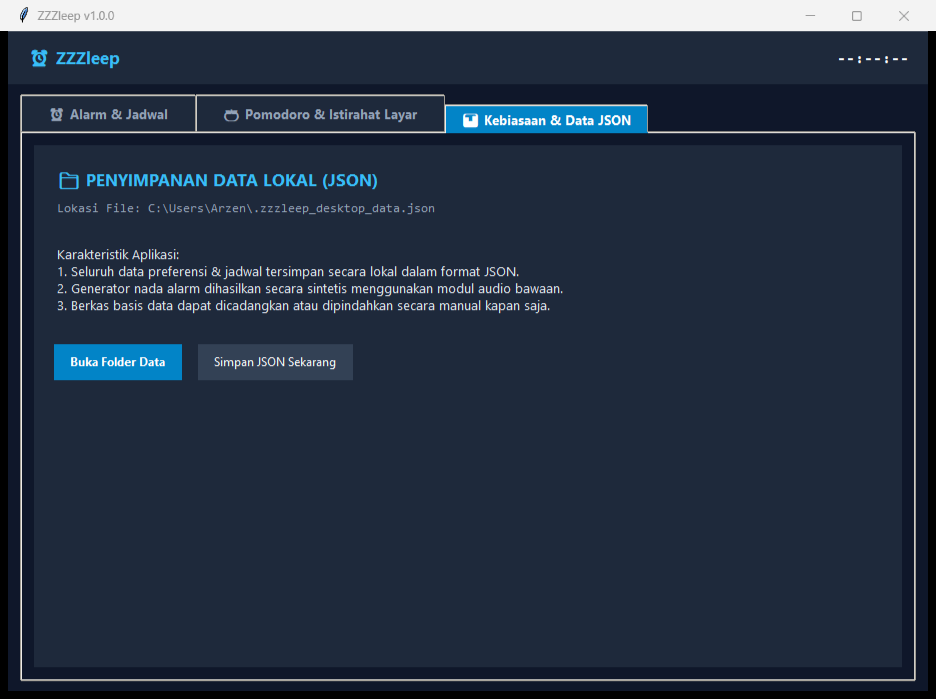
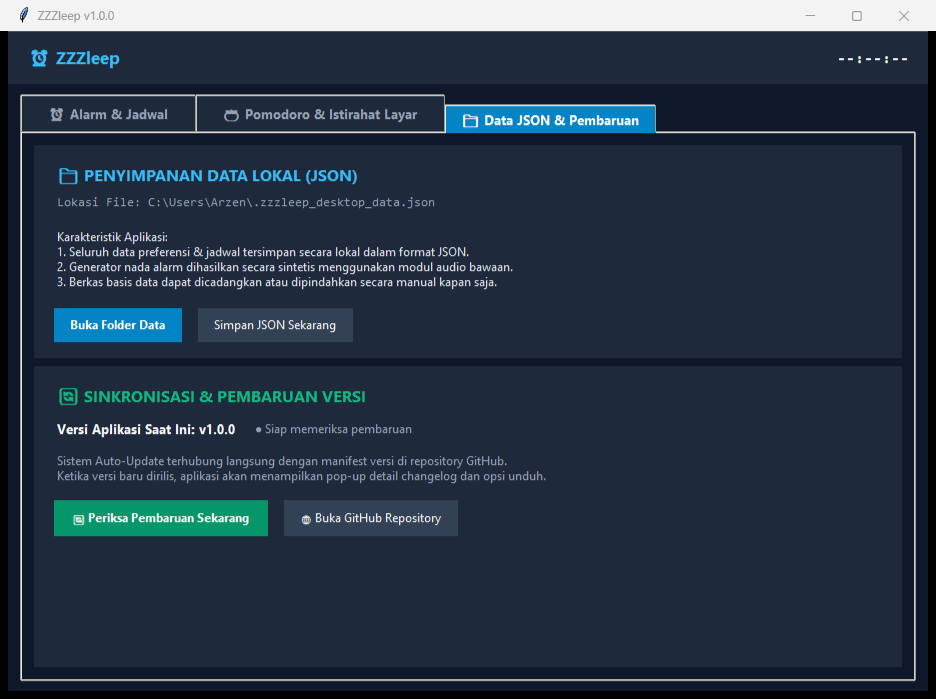
feat: implement GitHub-integrated auto-update engine with version.json manifest and changelog dialog

Changed region(s): [[0.031, 0.3305, 0.6197, 0.7811], [0.062, 0.2403, 0.4647, 0.3004], [0.4957, 0.1502, 0.7126, 0.2103]]

diff --git a/index.html b/index.html
@@ -112,7 +112,7 @@
           </button>
           <button id="btnTab3" onclick="switchScreenshot(3)" class="px-3.5 py-1.5 rounded-lg text-xs font-semibold bg-slate-100 dark:bg-slate-900 text-slate-600 dark:text-slate-400 hover:text-slate-900 dark:hover:text-white flex items-center gap-1.5 border border-slate-200 dark:border-slate-800 transition">
             <i data-lucide="hard-drive" class="w-3.5 h-3.5"></i>
-            <span id="tab3Title">3. Data JSON &amp; Backup</span>
+            <span id="tab3Title">3. Data JSON &amp; Pembaruan</span>
           </button>
         </div>
         <span class="text-[11px] font-mono text-slate-500" id="screenshotSub">Tangkapan Layar Asli Aplikasi Desktop (Tkinter GUI)</span>
@@ -145,6 +145,10 @@
           <li class="flex items-start gap-2">
             <span class="text-sky-600 dark:text-sky-400 font-bold">•</span>
             <span><strong>Timer Pomodoro (25/5):</strong> Siklus fokus kerja dan jeda istirahat dengan notifikasi suara.</span>
+          </li>
+          <li class="flex items-start gap-2">
+            <span class="text-sky-600 dark:text-sky-400 font-bold">•</span>
+            <span><strong>Auto-Update GitHub:</strong> Sinkronisasi manifest <code class="px-1 py-0.5 rounded bg-slate-100 dark:bg-slate-800 text-slate-800 dark:text-slate-200 font-mono">version.json</code> otomatis dengan dialog pop-up changelog.</span>
           </li>
           <li class="flex items-start gap-2">
             <span class="text-sky-600 dark:text-sky-400 font-bold">•</span>
@@ -230,7 +234,7 @@
         heroDesc: 'Aplikasi manajemen waktu untuk laptop dan komputer: alarm audio sintetis (winsound), timer Pomodoro 25/5, pengingat istirahat mata 20-20-20, dan penyimpanan data lokal JSON.',
         tab1Title: '1. Alarm & Jadwal',
         tab2Title: '2. Pomodoro & Istirahat Layar',
-        tab3Title: '3. Data JSON & Backup',
+        tab3Title: '3. Data JSON & Pembaruan',
         screenshotSub: 'Tangkapan Layar Asli Aplikasi Desktop (Tkinter GUI)',
         specHeading: 'Spesifikasi & Fitur Teknis',
         specList: `
@@ -248,6 +252,10 @@
           </li>
           <li class="flex items-start gap-2">
             <span class="text-sky-600 dark:text-sky-400 font-bold">•</span>
+            <span><strong>Auto-Update GitHub:</strong> Sinkronisasi manifest <code class="px-1 py-0.5 rounded bg-slate-100 dark:bg-slate-800 text-slate-800 dark:text-slate-200 font-mono">version.json</code> otomatis dengan dialog pop-up changelog.</span>
+          </li>
+          <li class="flex items-start gap-2">
+            <span class="text-sky-600 dark:text-sky-400 font-bold">•</span>
             <span><strong>Penyimpanan Lokal:</strong> Berkas tersimpan di <code class="px-1 py-0.5 rounded bg-slate-100 dark:bg-slate-800 text-slate-800 dark:text-slate-200 font-mono">~/.zzzleep_desktop_data.json</code>.</span>
           </li>
         `,
@@ -262,7 +270,7 @@
         heroDesc: 'Time-management desktop application: synthesized audio alarms (winsound), 25/5 Pomodoro timer, 20-20-20 screen rest reminder, and local JSON storage.',
         tab1Title: '1. Alarms & Schedule',
         tab2Title: '2. Pomodoro & Screen Rest',
-        tab3Title: '3. JSON Storage & Backup',
+        tab3Title: '3. JSON Storage & Updates',
         screenshotSub: 'Real Native Desktop Application Screenshots (Tkinter GUI)',
         specHeading: 'Technical Specifications & Features',
         specList: `
@@ -277,6 +285,10 @@
           <li class="flex items-start gap-2">
             <span class="text-sky-600 dark:text-sky-400 font-bold">•</span>
             <span><strong>Pomodoro Timer (25/5):</strong> Work/break interval cycles with audio notifications.</span>
+          </li>
+          <li class="flex items-start gap-2">
+            <span class="text-sky-600 dark:text-sky-400 font-bold">•</span>
+            <span><strong>GitHub Auto-Update:</strong> Automatic synchronization via <code class="px-1 py-0.5 rounded bg-slate-100 dark:bg-slate-800 text-slate-800 dark:text-slate-200 font-mono">version.json</code> with popup changelog modal.</span>
           </li>
           <li class="flex items-start gap-2">
             <span class="text-sky-600 dark:text-sky-400 font-bold">•</span>

diff --git a/desktop/app.py b/desktop/app.py
@@ -1,6 +1,6 @@
 #!/usr/bin/env python3
 """
-ZZZleep Desktop — Desktop Calendar, Audio Alarm & Rest Timer
+ZZZleep — Desktop Calendar, Audio Alarm & Rest Timer
 Author: Rizki Ananda, S.Kom (@InfiniteNull)
 License: MIT
 """
@@ -12,6 +12,8 @@ import time
 import math
 import threading
 import datetime
+import urllib.request
+import webbrowser
 import tkinter as tk
 from tkinter import ttk, messagebox
 
@@ -22,10 +24,12 @@ try:
 except ImportError:
     HAS_WINSOUND = False
 
-# Application Meta
+# Application Meta & Update Config
 APP_NAME = "ZZZleep"
 APP_VERSION = "1.0.0"
 DATA_FILE = os.path.join(os.path.expanduser("~"), ".zzzleep_desktop_data.json")
+UPDATE_MANIFEST_URL = "https://raw.githubusercontent.com/InfiniteNull/ZZZleep/main/version.json"
+GITHUB_REPO_URL = "https://github.com/InfiniteNull/ZZZleep"
 
 DEFAULT_DATA = {
     "alarms": [
@@ -43,6 +47,15 @@ DEFAULT_DATA = {
         "eyeRestIntervalMin": 20
     }
 }
+
+
+def parse_version(v_str):
+    """Parses semver string into comparable tuple."""
+    try:
+        clean = str(v_str).strip().lstrip('v')
+        return tuple(int(x) for x in clean.split('.'))
+    except Exception:
+        return (0, 0, 0)
 
 
 def play_audio_tone(tone_type="gentle"):
@@ -94,6 +107,9 @@ class ZzzleepDesktopApp:
         self.setup_styles()
         self.build_ui()
         self.start_background_timer()
+
+        # Background update check on launch (silent)
+        self.root.after(2000, lambda: self.check_for_updates_async(silent=True))
 
     def load_data(self):
         if os.path.exists(DATA_FILE):
@@ -156,9 +172,9 @@ class ZzzleepDesktopApp:
         self.notebook.add(tab_timers, text="  🍅 Pomodoro & Istirahat Layar  ")
         self.build_timers_tab(tab_timers)
 
-        # Tab 3: Habits & Data
+        # Tab 3: Habits, Data & Updates
         tab_vault = ttk.Frame(self.notebook)
-        self.notebook.add(tab_vault, text="  📊 Kebiasaan & Data JSON  ")
+        self.notebook.add(tab_vault, text="  📁 Data JSON & Pembaruan  ")
         self.build_vault_tab(tab_vault)
 
     def build_alarms_tab(self, parent):
@@ -300,7 +316,6 @@ class ZzzleepDesktopApp:
         btn_pomo_r = tk.Button(pomo_btns, text="Reset", font=("Segoe UI", 10), bg="#334155", fg="#f8fafc", relief="flat", padx=10, pady=6, command=self.reset_pomodoro)
         btn_pomo_r.pack(side="left", padx=6)
 
-        desc1 = "Siklus kerja fokus 25 menit diselingi istirahat 5 menit\\nuntuk menjaga konsentrasi kerja."
         tk.Label(pomo, text="Siklus kerja fokus 25 menit diselingi istirahat 5 menit\nuntuk menjaga konsentrasi kerja.", font=("Segoe UI", 9), fg="#94a3b8", bg="#1e293b", justify="center").pack(pady=16)
 
         # Eye Rest Card
@@ -340,11 +355,12 @@ class ZzzleepDesktopApp:
         container = tk.Frame(parent, bg="#0f172a")
         container.pack(fill="both", expand=True, padx=6, pady=6)
 
+        # 1. Local Storage Card
         card = tk.Frame(container, bg="#1e293b")
-        card.pack(fill="both", expand=True, padx=6, pady=6)
+        card.pack(fill="x", padx=6, pady=(6, 8))
 
-        tk.Label(card, text="📁 PENYIMPANAN DATA LOKAL (JSON)", font=("Segoe UI", 13, "bold"), fg="#38bdf8", bg="#1e293b").pack(anchor="w", padx=20, pady=(20, 4))
-        tk.Label(card, text=f"Lokasi File: {DATA_FILE}", font=("Consolas", 9), fg="#94a3b8", bg="#1e293b").pack(anchor="w", padx=20, pady=(0, 16))
+        tk.Label(card, text="📁 PENYIMPANAN DATA LOKAL (JSON)", font=("Segoe UI", 12, "bold"), fg="#38bdf8", bg="#1e293b").pack(anchor="w", padx=20, pady=(16, 4))
+        tk.Label(card, text=f"Lokasi File: {DATA_FILE}", font=("Consolas", 9), fg="#94a3b8", bg="#1e293b").pack(anchor="w", padx=20, pady=(0, 10))
 
         info_text = (
             "Karakteristik Aplikasi:\n"
@@ -352,16 +368,173 @@ class ZzzleepDesktopApp:
             "2. Generator nada alarm dihasilkan secara sintetis menggunakan modul audio bawaan.\n"
             "3. Berkas basis data dapat dicadangkan atau dipindahkan secara manual kapan saja."
         )
-        tk.Label(card, text=info_text, font=("Segoe UI", 10), fg="#e2e8f0", bg="#1e293b", justify="left").pack(anchor="w", padx=20, pady=8)
+        tk.Label(card, text=info_text, font=("Segoe UI", 9), fg="#e2e8f0", bg="#1e293b", justify="left").pack(anchor="w", padx=20, pady=4)
 
         btn_box = tk.Frame(card, bg="#1e293b")
-        btn_box.pack(anchor="w", padx=20, pady=20)
+        btn_box.pack(anchor="w", padx=20, pady=(12, 16))
 
-        btn_open = tk.Button(btn_box, text="Buka Folder Data", font=("Segoe UI", 9, "bold"), bg="#0284c7", fg="white", relief="flat", padx=12, pady=6, command=lambda: os.system(f'explorer /select,"{DATA_FILE}"'))
+        btn_open = tk.Button(btn_box, text="Buka Folder Data", font=("Segoe UI", 9, "bold"), bg="#0284c7", fg="white", relief="flat", padx=12, pady=5, command=lambda: os.system(f'explorer /select,"{DATA_FILE}"'))
         btn_open.pack(side="left", padx=(0, 8))
 
-        btn_save = tk.Button(btn_box, text="Simpan JSON Sekarang", font=("Segoe UI", 9), bg="#334155", fg="#f8fafc", relief="flat", padx=12, pady=6, command=self.save_data)
+        btn_save = tk.Button(btn_box, text="Simpan JSON Sekarang", font=("Segoe UI", 9), bg="#334155", fg="#f8fafc", relief="flat", padx=12, pady=5, command=self.save_data)
         btn_save.pack(side="left", padx=8)
+
+        # 2. Update & Version Sync Card
+        up_card = tk.Frame(container, bg="#1e293b")
+        up_card.pack(fill="both", expand=True, padx=6, pady=(0, 6))
+
+        tk.Label(up_card, text="🔄 SINKRONISASI & PEMBARUAN VERSI", font=("Segoe UI", 12, "bold"), fg="#10b981", bg="#1e293b").pack(anchor="w", padx=20, pady=(16, 4))
+        
+        up_meta = tk.Frame(up_card, bg="#1e293b")
+        up_meta.pack(fill="x", padx=20, pady=4)
+        
+        tk.Label(up_meta, text=f"Versi Aplikasi Saat Ini: v{APP_VERSION}", font=("Segoe UI", 10, "bold"), fg="#f8fafc", bg="#1e293b").pack(side="left")
+        
+        self.lbl_update_status = tk.Label(up_meta, text="● Siap memeriksa pembaruan", font=("Segoe UI", 9), fg="#94a3b8", bg="#1e293b")
+        self.lbl_update_status.pack(side="left", padx=14)
+
+        up_desc = (
+            "Sistem Auto-Update terhubung langsung dengan manifest versi di repository GitHub.\n"
+            "Ketika versi baru dirilis, aplikasi akan menampilkan pop-up detail changelog dan opsi unduh."
+        )
+        tk.Label(up_card, text=up_desc, font=("Segoe UI", 9), fg="#94a3b8", bg="#1e293b", justify="left").pack(anchor="w", padx=20, pady=6)
+
+        up_btn_box = tk.Frame(up_card, bg="#1e293b")
+        up_btn_box.pack(anchor="w", padx=20, pady=(8, 16))
+
+        self.btn_check_update = tk.Button(up_btn_box, text="🔄 Periksa Pembaruan Sekarang", font=("Segoe UI", 9, "bold"), bg="#059669", fg="white", activebackground="#047857", activeforeground="white", relief="flat", padx=14, pady=6, command=lambda: self.check_for_updates_async(silent=False))
+        self.btn_check_update.pack(side="left", padx=(0, 8))
+
+        btn_repo = tk.Button(up_btn_box, text="🌐 Buka GitHub Repository", font=("Segoe UI", 9), bg="#334155", fg="#f8fafc", relief="flat", padx=12, pady=6, command=lambda: webbrowser.open(GITHUB_REPO_URL))
+        btn_repo.pack(side="left", padx=8)
+
+    def check_for_updates_async(self, silent=True):
+        """Asynchronously checks version.json from GitHub."""
+        if hasattr(self, 'lbl_update_status'):
+            self.lbl_update_status.config(text="⏳ Memeriksa ke GitHub...", fg="#38bdf8")
+
+        def _worker():
+            try:
+                req = urllib.request.Request(
+                    UPDATE_MANIFEST_URL,
+                    headers={"User-Agent": f"ZZZleep-Desktop/{APP_VERSION}"}
+                )
+                with urllib.request.urlopen(req, timeout=6) as resp:
+                    if resp.status == 200:
+                        raw = resp.read().decode('utf-8')
+                        data = json.loads(raw)
+                        remote_ver = data.get("version", "1.0.0")
+                        
+                        if parse_version(remote_ver) > parse_version(APP_VERSION):
+                            self.root.after(0, lambda: self.on_update_found(data))
+                        else:
+                            self.root.after(0, lambda: self.on_update_up_to_date(remote_ver, silent))
+                        return
+            except Exception as e:
+                self.root.after(0, lambda: self.on_update_error(str(e), silent))
+
+        t = threading.Thread(target=_worker, daemon=True)
+        t.start()
+
+    def on_update_found(self, data):
+        new_ver = data.get("version", "1.0.0")
+        if hasattr(self, 'lbl_update_status'):
+            self.lbl_update_status.config(text=f"✨ Versi baru v{new_ver} tersedia!", fg="#10b981")
+        self.show_update_dialog(data)
+
+    def on_update_up_to_date(self, remote_ver, silent):
+        if hasattr(self, 'lbl_update_status'):
+            self.lbl_update_status.config(text=f"✓ Versi sudah paling mutakhir (v{APP_VERSION})", fg="#10b981")
+        if not silent:
+            messagebox.showinfo("Pembaruan Versi", f"Aplikasi ZZZleep sudah berada pada versi paling mutakhir (v{APP_VERSION}).")
+
+    def on_update_error(self, err_msg, silent):
+        if hasattr(self, 'lbl_update_status'):
+            self.lbl_update_status.config(text="● Mode offline / server tidak terjangkau", fg="#94a3b8")
+        if not silent:
+            messagebox.showwarning("Koneksi Pembaruan", "Tidak dapat menghubungi server GitHub. Periksa koneksi internet Anda.")
+
+    def show_update_dialog(self, data):
+        """Displays a modern dark-themed modal popup with update details and changelog."""
+        new_ver = data.get("version", "1.0.0")
+        rel_date = data.get("release_date", "")
+        changelog = data.get("changelog", [])
+        dl_url = data.get("download_url", GITHUB_REPO_URL)
+
+        dialog = tk.Toplevel(self.root)
+        dialog.title("Pembaruan ZZZleep Tersedia")
+        dialog.geometry("540x480")
+        dialog.minsize(500, 440)
+        dialog.configure(bg="#0f172a")
+        dialog.transient(self.root)
+        dialog.grab_set()
+
+        # Center relative to root window
+        dialog.update_idletasks()
+        rx = self.root.winfo_x()
+        ry = self.root.winfo_y()
+        rw = self.root.winfo_width()
+        rh = self.root.winfo_height()
+        dx = rx + (rw - 540) // 2
+        dy = ry + (rh - 480) // 2
+        dialog.geometry(f"+{max(0, dx)}+{max(0, dy)}")
+
+        # Header Box
+        hdr = tk.Frame(dialog, bg="#1e293b")
+        hdr.pack(fill="x")
+
+        tk.Label(hdr, text="🚀", font=("Segoe UI Emoji", 20), bg="#1e293b").pack(side="left", padx=(20, 10), pady=16)
+        h_info = tk.Frame(hdr, bg="#1e293b")
+        h_info.pack(side="left", fill="y", pady=14)
+
+        tk.Label(h_info, text="Pembaruan Baru Tersedia!", font=("Segoe UI", 12, "bold"), fg="#38bdf8", bg="#1e293b").pack(anchor="w")
+        sub_text = f"Versi v{new_ver} telah dirilis ({rel_date})" if rel_date else f"Versi v{new_ver} telah dirilis"
+        tk.Label(h_info, text=sub_text, font=("Segoe UI", 9), fg="#94a3b8", bg="#1e293b").pack(anchor="w")
+
+        # Body
+        body = tk.Frame(dialog, bg="#0f172a")
+        body.pack(fill="both", expand=True, padx=20, pady=14)
+
+        # Version Comparison Badge
+        v_box = tk.Frame(body, bg="#1e293b", padx=14, pady=10)
+        v_box.pack(fill="x", pady=(0, 12))
+
+        tk.Label(v_box, text=f"Versi Anda: v{APP_VERSION}", font=("Segoe UI", 9, "bold"), fg="#94a3b8", bg="#1e293b").pack(side="left")
+        tk.Label(v_box, text="  ➔  ", font=("Segoe UI", 10, "bold"), fg="#38bdf8", bg="#1e293b").pack(side="left")
+        tk.Label(v_box, text=f"Versi Terbaru: v{new_ver}", font=("Segoe UI", 9, "bold"), fg="#10b981", bg="#1e293b").pack(side="left")
+
+        # Changelog Header
+        tk.Label(body, text="Apa saja yang baru pada versi ini:", font=("Segoe UI", 10, "bold"), fg="#f8fafc", bg="#0f172a").pack(anchor="w", pady=(0, 6))
+
+        # Changelog List Container
+        cl_box = tk.Frame(body, bg="#1e293b", padx=14, pady=12)
+        cl_box.pack(fill="both", expand=True)
+
+        if changelog:
+            for item in changelog:
+                row = tk.Frame(cl_box, bg="#1e293b")
+                row.pack(fill="x", anchor="w", pady=3)
+                tk.Label(row, text="•", font=("Segoe UI", 10, "bold"), fg="#38bdf8", bg="#1e293b").pack(side="left", anchor="n", padx=(0, 8))
+                tk.Label(row, text=item, font=("Segoe UI", 9), fg="#e2e8f0", bg="#1e293b", wraplength=430, justify="left").pack(side="left", fill="x", expand=True)
+        else:
+            tk.Label(cl_box, text="Peningkatan performa dan pembaruan sistem.", font=("Segoe UI", 9, "italic"), fg="#94a3b8", bg="#1e293b").pack(anchor="w")
+
+        # Footer Actions
+        ftr = tk.Frame(dialog, bg="#1e293b", padx=16, pady=14)
+        ftr.pack(fill="x", side="bottom")
+
+        def _do_update():
+            webbrowser.open(dl_url)
+            dialog.destroy()
+
+        btn_update = tk.Button(ftr, text="⬇ Unduh Pembaruan", font=("Segoe UI", 9, "bold"), bg="#0284c7", fg="white", activebackground="#0369a1", activeforeground="white", relief="flat", padx=16, pady=6, command=_do_update)
+        btn_update.pack(side="right", padx=(8, 0))
+
+        btn_gh = tk.Button(ftr, text="🌐 Lihat di GitHub", font=("Segoe UI", 9), bg="#334155", fg="#f8fafc", relief="flat", padx=12, pady=6, command=lambda: webbrowser.open(GITHUB_REPO_URL))
+        btn_gh.pack(side="right", padx=6)
+
+        btn_cancel = tk.Button(ftr, text="Nanti Saja", font=("Segoe UI", 9), bg="#1e293b", fg="#94a3b8", relief="flat", padx=12, pady=6, command=dialog.destroy)
+        btn_cancel.pack(side="left")
 
     def start_background_timer(self):
         def _loop():
@@ -390,6 +563,7 @@ class ZzzleepDesktopApp:
                                 try:
                                     self.root.deiconify()
                                     self.root.lift()
+                                    self.root.focus_force()
                                 except Exception:
                                     pass
 

diff --git a/README.md b/README.md
@@ -29,8 +29,8 @@
 
 <br />
 
-### 3. Penyimpanan Data JSON & Backup
-<img src="assets/vault_preview.png" alt="Data JSON & Backup" width="820" />
+### 3. Penyimpanan Data JSON & Pembaruan
+<img src="assets/vault_preview.png" alt="Data JSON & Pembaruan" width="820" />
 
 </div>
 
@@ -48,10 +48,14 @@
 3. **Timer Pomodoro (25/5)**
    - Siklus kerja fokus 25 menit diselingi istirahat 5 menit dengan notifikasi suara.
 
-4. **Penyimpanan Data Lokal JSON**
+4. **Sistem Auto-Update Terintegrasi GitHub**
+   - Mendeteksi rilis versi baru secara otomatis melalui file manifest `version.json` di GitHub repository.
+   - Menampilkan pop-up dialog rilis lengkap dengan perbandingan versi dan daftar changelog pembaruan.
+
+5. **Penyimpanan Data Lokal JSON**
    - Jadwal dan alarm tersimpan otomatis di direktori pengguna (`~/.zzzleep_desktop_data.json`) dan dapat dicadangkan secara mandiri.
 
-5. **Kompilasi Aplikasi Mandiri**
+6. **Kompilasi Aplikasi Mandiri**
    - Dapat dikompilasi menjadi satu berkas eksekusi mandiri tanpa perlu instalasi Python pada komputer target.
 
 ---
@@ -63,10 +67,11 @@ ZZZleep/
 ├── assets/
 │   ├── desktop_preview.png  # Tangkapan layar UI alarm & dashboard
 │   ├── timers_preview.png   # Tangkapan layar UI pomodoro & 20-20-20
-│   └── vault_preview.png    # Tangkapan layar UI penyimpanan data JSON
+│   └── vault_preview.png    # Tangkapan layar UI data JSON & update
 ├── desktop/
-│   ├── app.py               # Aplikasi desktop GUI (Tkinter)
+│   ├── app.py               # Aplikasi desktop GUI & Auto-Updater engine
 │   └── build_exe.py         # Script build PyInstaller
+├── version.json             # Manifest versi & changelog untuk auto-update
 ├── requirements.txt         # Dependensi build
 └── README.md                # Dokumentasi
 ```
@@ -100,7 +105,8 @@ Berkas eksekusi mandiri akan langsung tersedia di folder `desktop/dist/` dan sia
 ## Teknologi
 
 - **GUI**: Python 3 & Tkinter (Dark theme styling).
-- **Audio Engine**: Modul audio sintetis harmonis.
+- **Audio Engine**: Modul audio sintetis harmonis (`winsound`).
+- **Updater Engine**: Background non-blocking GitHub manifest fetcher (`urllib.request`).
 - **Packaging**: PyInstaller.
 - **Data**: Local JSON storage engine.
 
